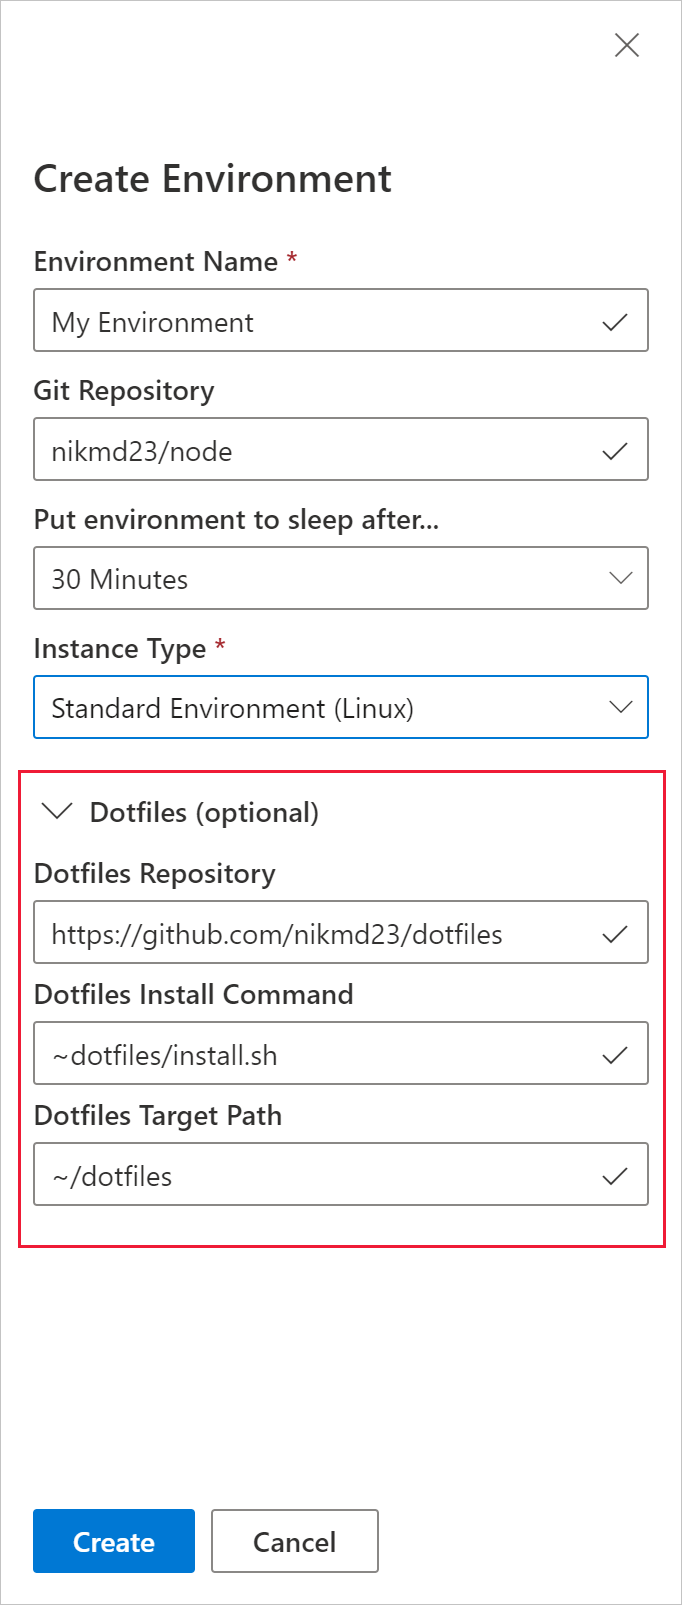
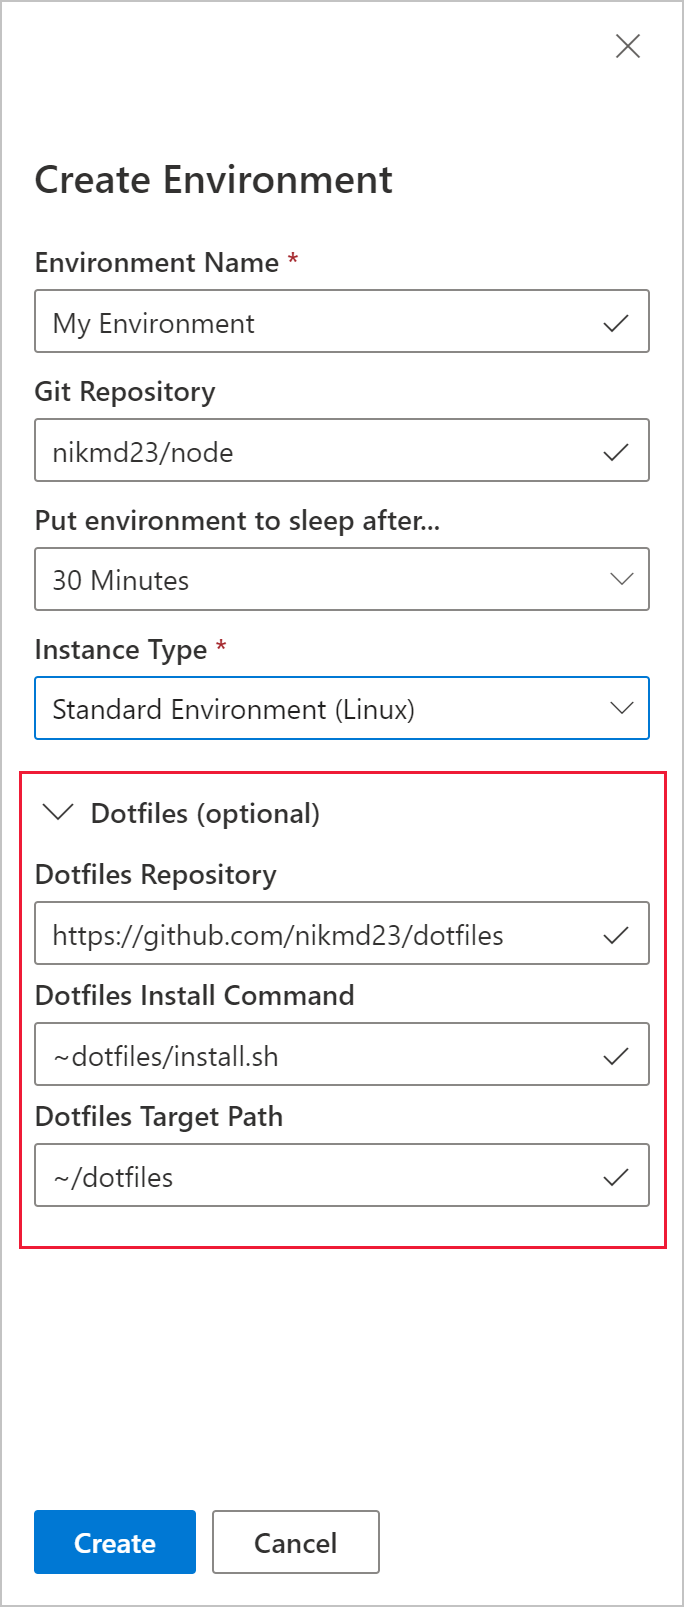
Tweak to personalizing reference

diff --git a/vs-online/reference/personalizing.md b/vs-online/reference/personalizing.md
@@ -25,7 +25,7 @@ In the **Settings** tab that opens, select the **Extensions** node in the naviga
 
 You can also configure dotfiles in from [online.visualstudio.com](http://online.visualstudio.com). Press the **Create environment** button, and expand the **Dotfiles (optional)** settings.
 
-![Visual Studio Online Dotfiles Settings](../images/personalizing-dotfiles-vsc.png)
+![Visual Studio Online Dotfiles Settings](../images/personalizing-dotfiles-vso.png)
 
 In both experiences, there's three options that can be configured:
 
